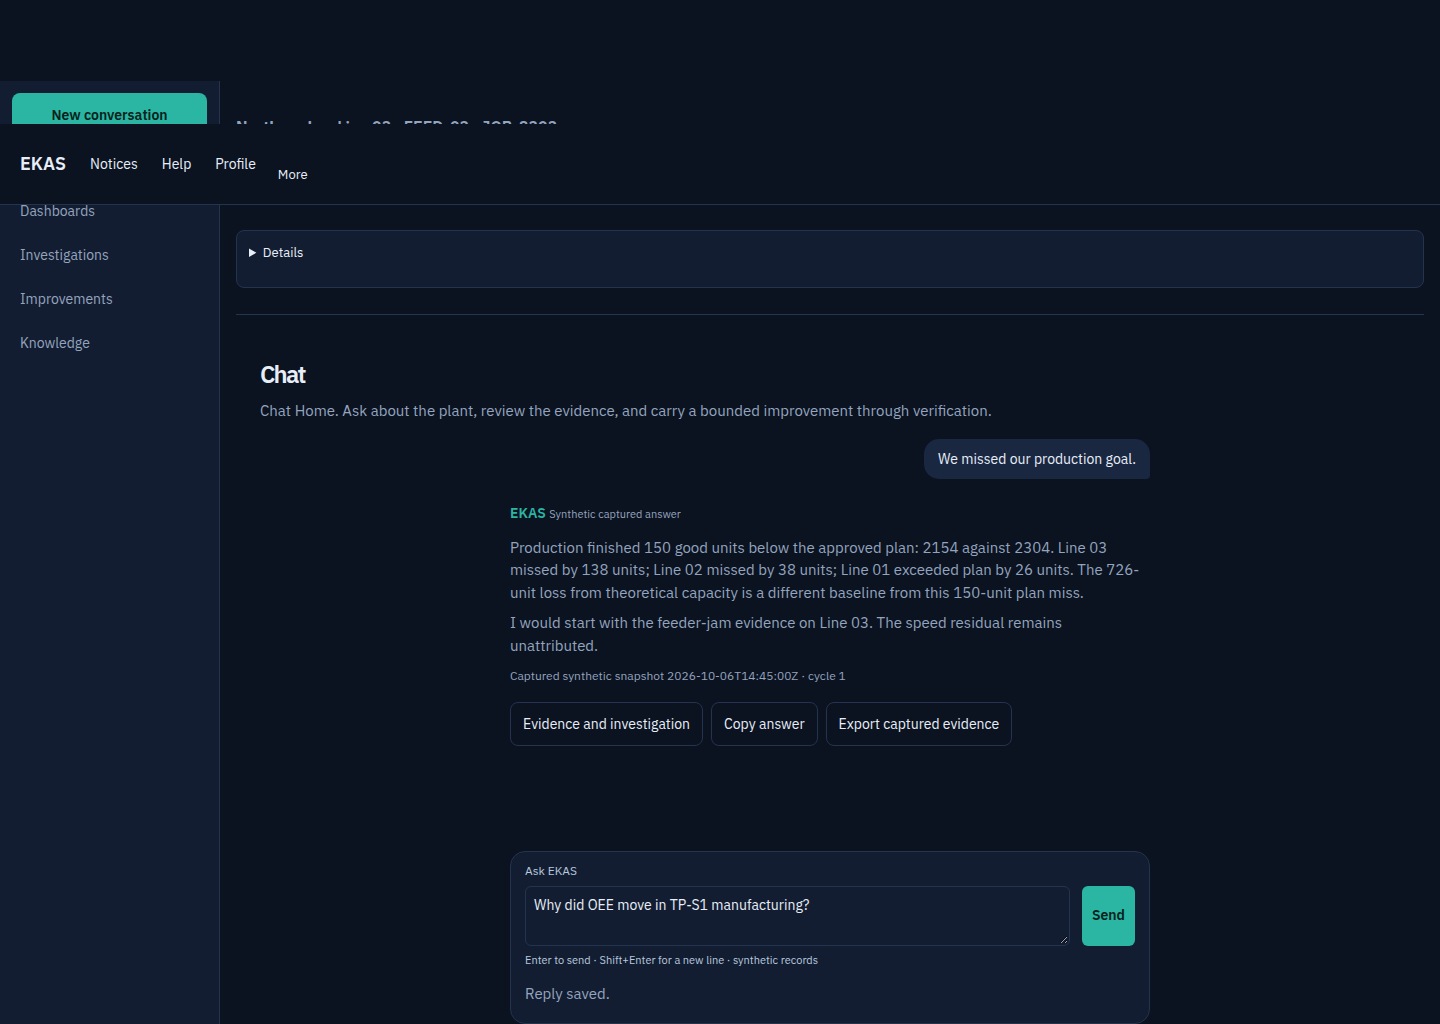
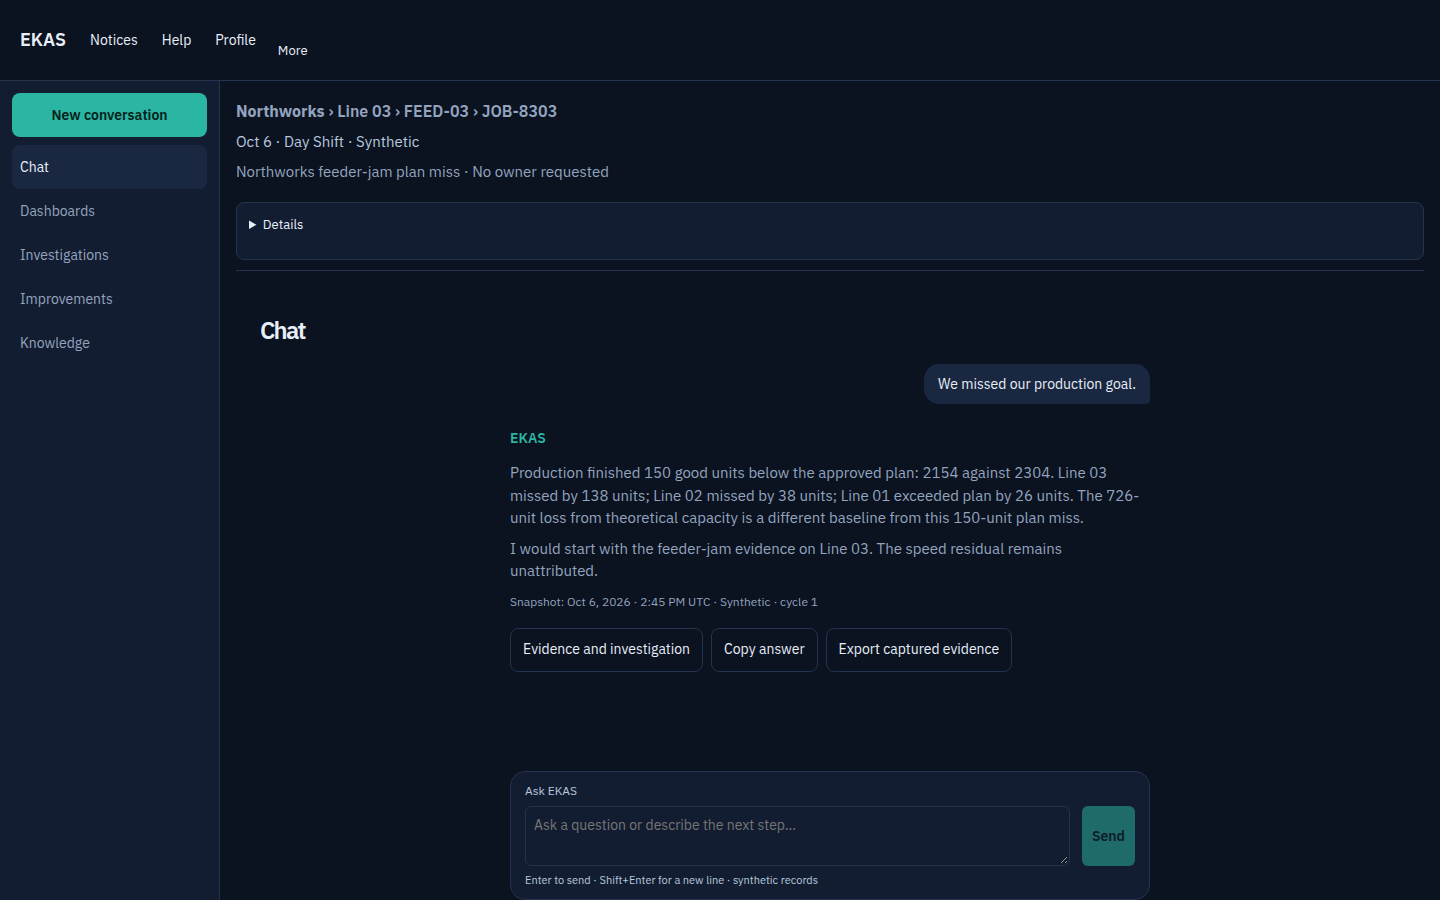
Record the shell-closure Chrome walk-through.
The captures keep the context bar in view, the 320px Send button on screen, and the plain-language evidence lines.

diff --git a/e2e/shell-walkthrough.spec.ts b/e2e/shell-walkthrough.spec.ts
@@ -84,7 +84,7 @@ test('plant shell walk-through of the closure screens', async ({ page }) => {
   await page.getByRole('button', { name: 'Investigations', exact: true }).click();
   await expect(page.getByRole('heading', { name: 'Investigations' })).toBeVisible();
   const summary = page.getByRole('region', { name: 'Investigation summary' });
-  await expect(summary).toContainText(/good units below plan/);
+  await expect(summary).toContainText('150 units below plan');
   await expect(summary).toContainText('Status: No owner requested');
   await expect(summary).toContainText('Owner: Not assigned');
   await expect(summary).toContainText('Next: Request an owner');
@@ -99,7 +99,7 @@ test('plant shell walk-through of the closure screens', async ({ page }) => {
   await page.setViewportSize({ width: 320, height: 700 });
   await expect(page.getByRole('button', { name: 'Menu' })).toBeVisible();
   await expect(menu).toBeHidden();
-  await expect(page.getByLabel('Investigation section')).toBeVisible();
+  await expect(page.getByLabel('Investigation section', { exact: true })).toBeVisible();
   await expect(summary).toContainText('Next: Request an owner');
   const field = page.getByLabel('Ask EKAS');
   const send = page.getByRole('button', { name: 'Send' });
@@ -132,9 +132,9 @@ test('plant shell walk-through of the closure screens', async ({ page }) => {
   expect(evidenceText.split('Standard Work 030 — Current').length - 1).toBe(1);
   expect(evidenceText).toContain('Technician note — Uncontrolled /');
   expect(evidenceText).toContain('Stop event 01 — Feeder jams / 12 minutes · FEED-03 · Oct 6');
-  expect(evidenceText).not.toContain('SW-030');
+  expect(evidenceText).not.toMatch(/SW-030 ·/);
   expect(evidenceText).not.toContain('Saved with this reply');
-  expect(evidenceText).toContain('Next: Request an owner');
+  expect(evidenceText).toContain('Request an owner');
   await page.screenshot({ path: `${shots}/05-evidence.png`, fullPage: false });
   await page.keyboard.press('Escape');
 
